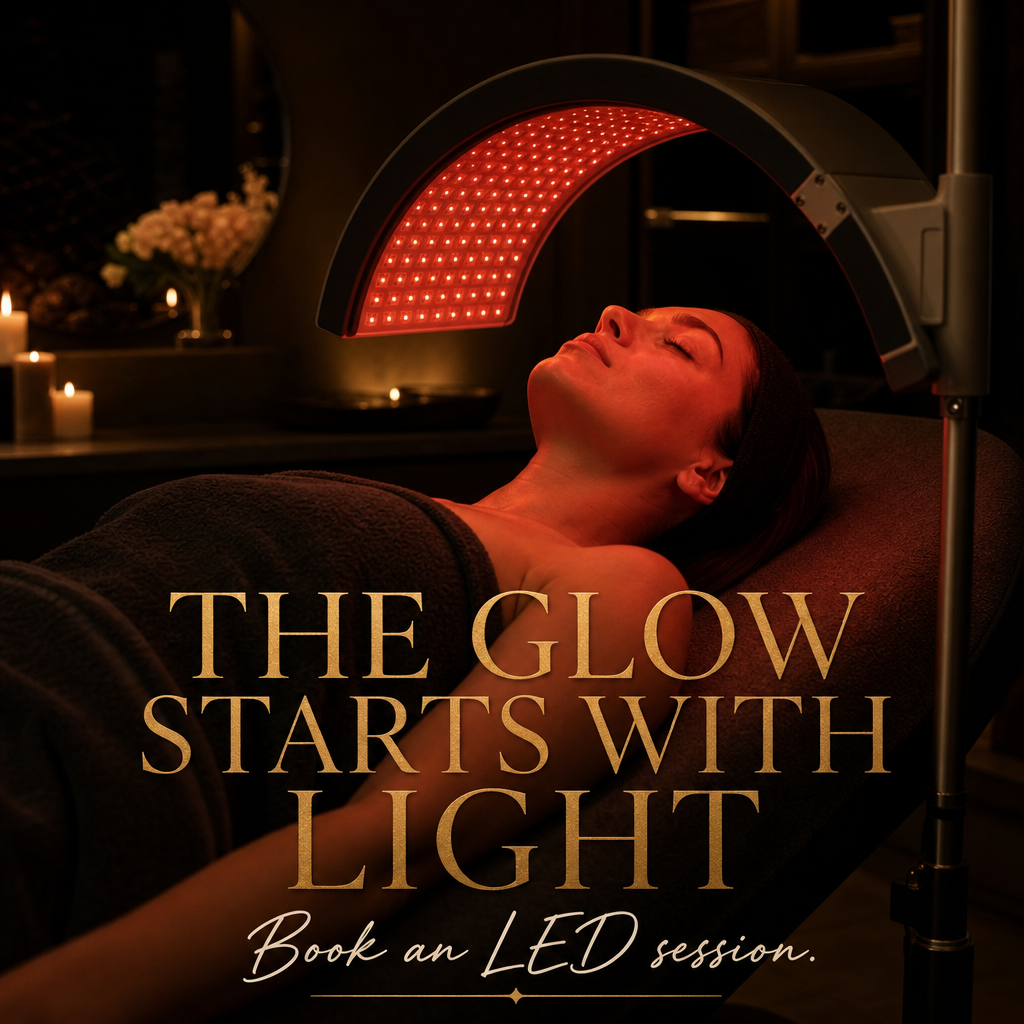
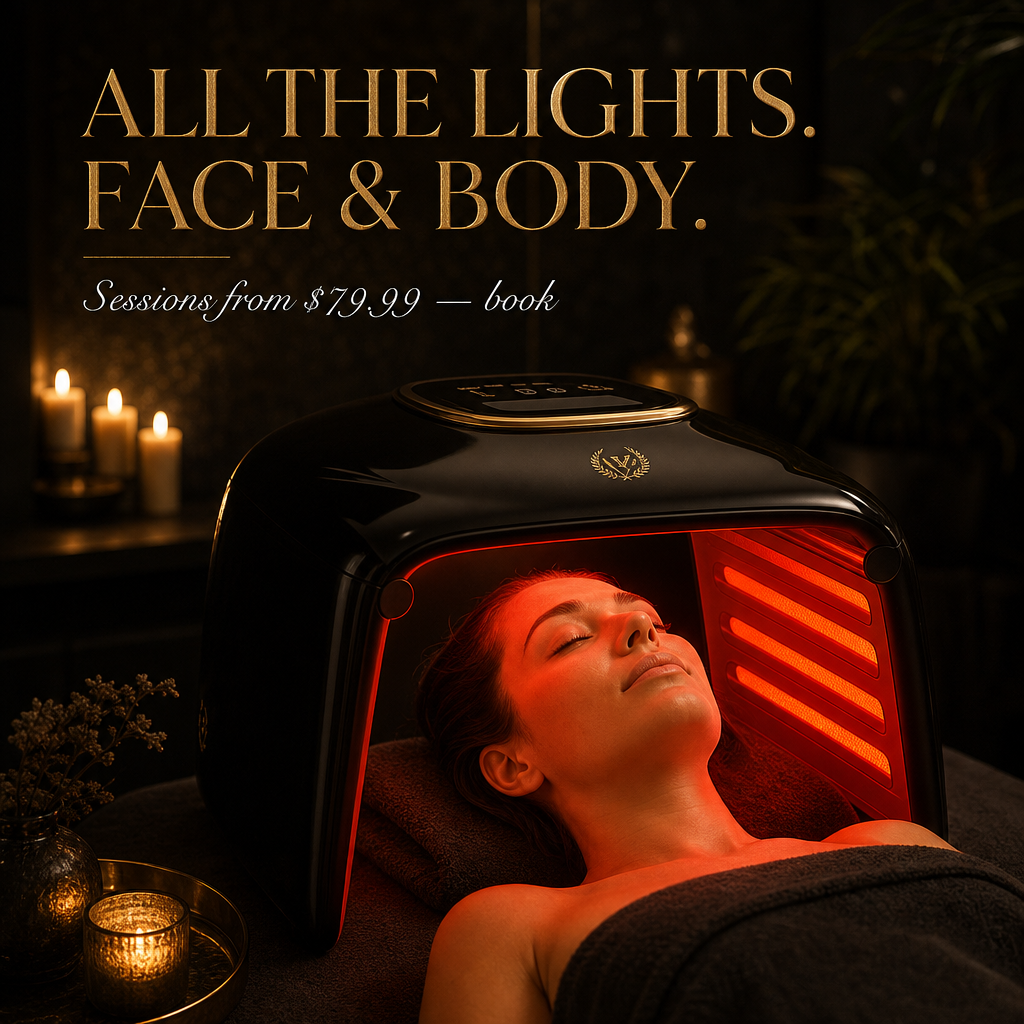
Sept 2026 V2: update creatives+copy to client's real products (DpSCAN, LED face&body from $79.99, Neck&Décolleté 24K, Facial+LED $64.99, Derma Jade)

diff --git a/september-2026/update_calendar.py b/september-2026/update_calendar.py
@@ -1,0 +1,58 @@
+#!/usr/bin/env python3
+import json
+
+path='/opt/data/solace-skin-lab/september-2026/calendar_v2_2026-09-01_to_2026-09-30.json'
+cal=json.load(open(path))
+
+by_day={p['day']:p for p in cal}
+
+# ---- Day 2: DpSCAN skin/scalp/hair scanner ----
+d=by_day[2]
+d['type']='Trust'
+d['title']='YOUR SKIN, SCALP & HAIR. ANALYZED.'
+d['hook']='YOUR SKIN, SCALP & HAIR. ANALYZED.'
+d['body']='A free DpSCAN gives you an in-depth, data-driven look at the condition of your skin, scalp and hair — so we can recommend what actually fits you. No guesswork, just a clearer starting point.'
+d['cta']='Book a free scan and see your skin differently.'
+d['imageTitle']='YOUR SKIN, SCALP & HAIR. ANALYZED.'
+
+# ---- Day 4: All the LED lights (face & body) from $79.99 ----
+d=by_day[4]
+d['type']='LED'
+d['title']='ALL THE LIGHTS. FACE & BODY.'
+d['hook']='ALL THE LIGHTS. FACE & BODY.'
+d['body']='We have every light — for face and body. Multi-wavelength LED therapy in one place, from targeted facials to full-body sessions. Sessions start at $79.99.'
+d['cta']='Book a session from $79.99 and glow all over.'
+d['imageTitle']='ALL THE LIGHTS. FACE & BODY.'
+
+# ---- Day 5: Neck & Decollete 24K ----
+d=by_day[5]
+d['type']='Education'
+d['title']='NECK & DÉCOLLETÉ 24K'
+d['hook']='NECK & DÉCOLLETÉ 24K'
+d['body']='The neck and décolleté are the first to show age. Our 24K gold serum and cream help firm, smooth and reduce the appearance of expression lines — so your skin looks as cared-for as your face.'
+d['cta']='Ask about our Neck & Décolleté 24K ritual.'
+d['imageTitle']='NECK & DÉCOLLETÉ 24K'
+
+# ---- Day 12: LED facial face & neck, $64.99 with luxury skincare ----
+d=by_day[12]
+d['type']='Facial'
+d['title']='FACIAL + LED. FACE & NECK.'
+d['hook']='FACIAL + LED. FACE & NECK.'
+d['body']='A facial finished with LED light therapy, for both face and neck. Add any luxury skincare product and it is just $64.99 — with a free facial included.'
+d['cta']='Book your facial + LED for $64.99.'
+d['imageTitle']='FACIAL + LED. FACE & NECK.'
+
+# ---- Day 26: Derma Jade Eye Solution ----
+d=by_day[26]
+d['type']='Trust'
+d['title']='DERMA JADE EYE SOLUTION'
+d['hook']='DERMA JADE EYE SOLUTION'
+d['body']='Cooling jade, gentle sonic vibrations and LED — a luxury eye ritual that soothes puffiness and supports a refreshed, radiant look. The calmest few minutes of your day.'
+d['cta']='Ask us about the Derma Jade Eye ritual.'
+d['imageTitle']='DERMA JADE EYE SOLUTION'
+
+json.dump(cal, open(path,'w'), ensure_ascii=False, indent=2)
+print("Calendario actualizado OK")
+for dd in [2,4,5,12,26]:
+    p=by_day[dd]
+    print(f"Day {dd}: {p['title']}")

diff --git a/september-2026/regenerate_contact_sheets.py b/september-2026/regenerate_contact_sheets.py
@@ -1,0 +1,35 @@
+#!/usr/bin/env python3
+# Regenera los 3 contact sheets de septiembre-2026 (days01-10, 11-20, 21-30)
+# usando las imagenes images/dayNN.png actuales.
+import os
+from PIL import Image
+
+BASE='/opt/data/solace-skin-lab/september-2026'
+IMG=os.path.join(BASE,'images')
+OUT=os.path.join(BASE,'contact-sheets')
+os.makedirs(OUT, exist_ok=True)
+
+def contact_sheet(start, end, outfile):
+    cols=5
+    cell=340
+    pad=12
+    rows=( (end-start+1) + cols -1 )//cols
+    W=cols*cell+(cols+1)*pad
+    H=rows*cell+(rows+1)*pad
+    sheet=Image.new('RGB',(W,H),(18,18,20))
+    for i,day in enumerate(range(start,end+1)):
+        p=os.path.join(IMG,f'day{day:02d}.png')
+        if not os.path.exists(p):
+            print('  missing', p); continue
+        im=Image.open(p).convert('RGB')
+        im=im.resize((cell,cell), Image.LANCZOS)
+        r,c=divmod(i,cols)
+        x=pad+c*(cell+pad); y=pad+r*(cell+pad)
+        sheet.paste(im,(x,y))
+    sheet.save(outfile)
+    print(f'{outfile}: {os.path.getsize(outfile)} bytes')
+
+contact_sheet(1,10, os.path.join(OUT,'days01-10.png'))
+contact_sheet(11,20, os.path.join(OUT,'days11-20.png'))
+contact_sheet(21,30, os.path.join(OUT,'days21-30.png'))
+print('DONE')
